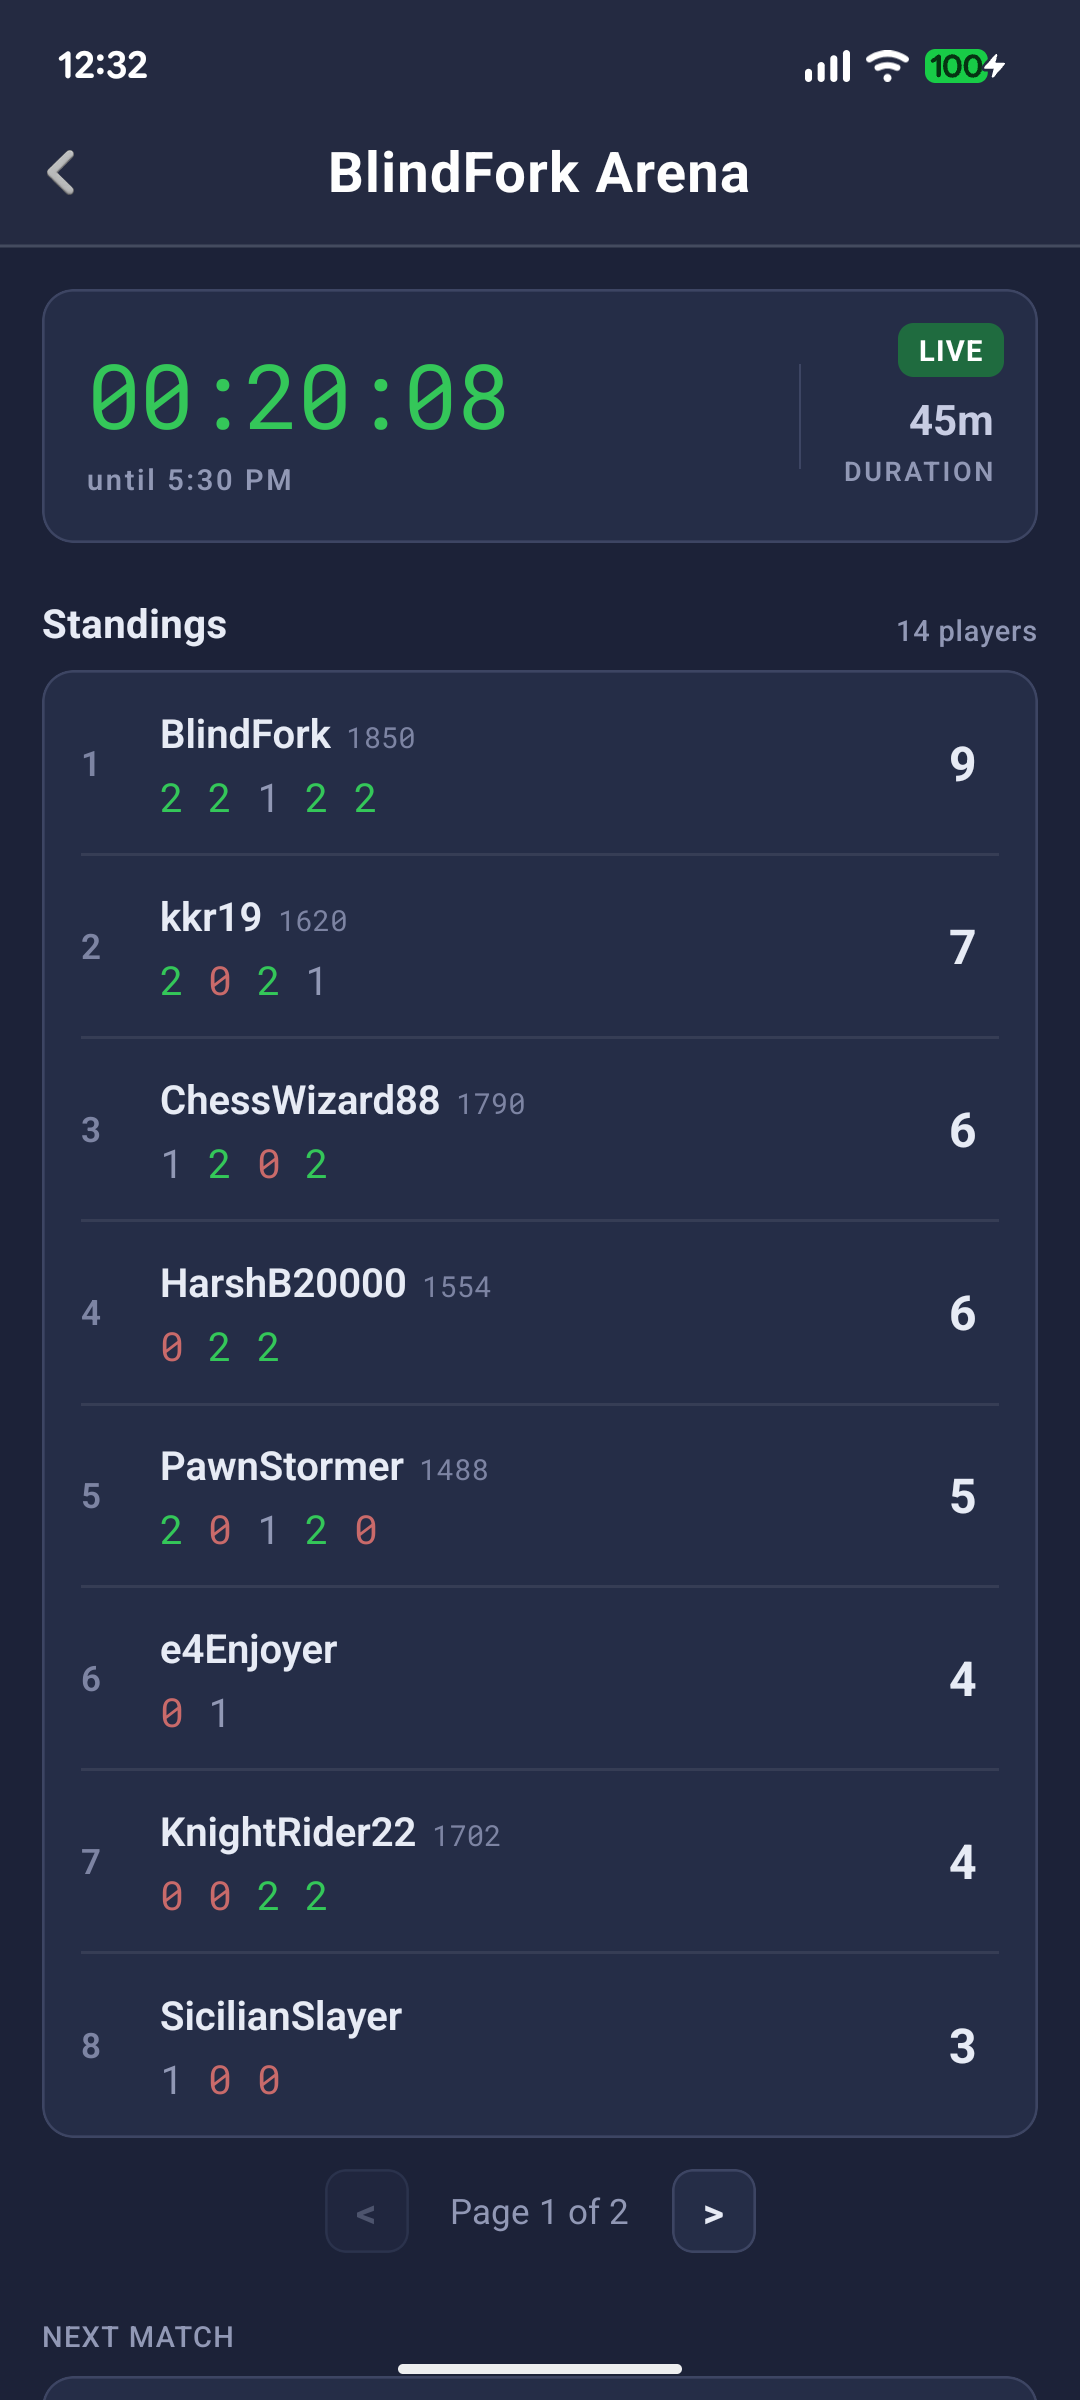
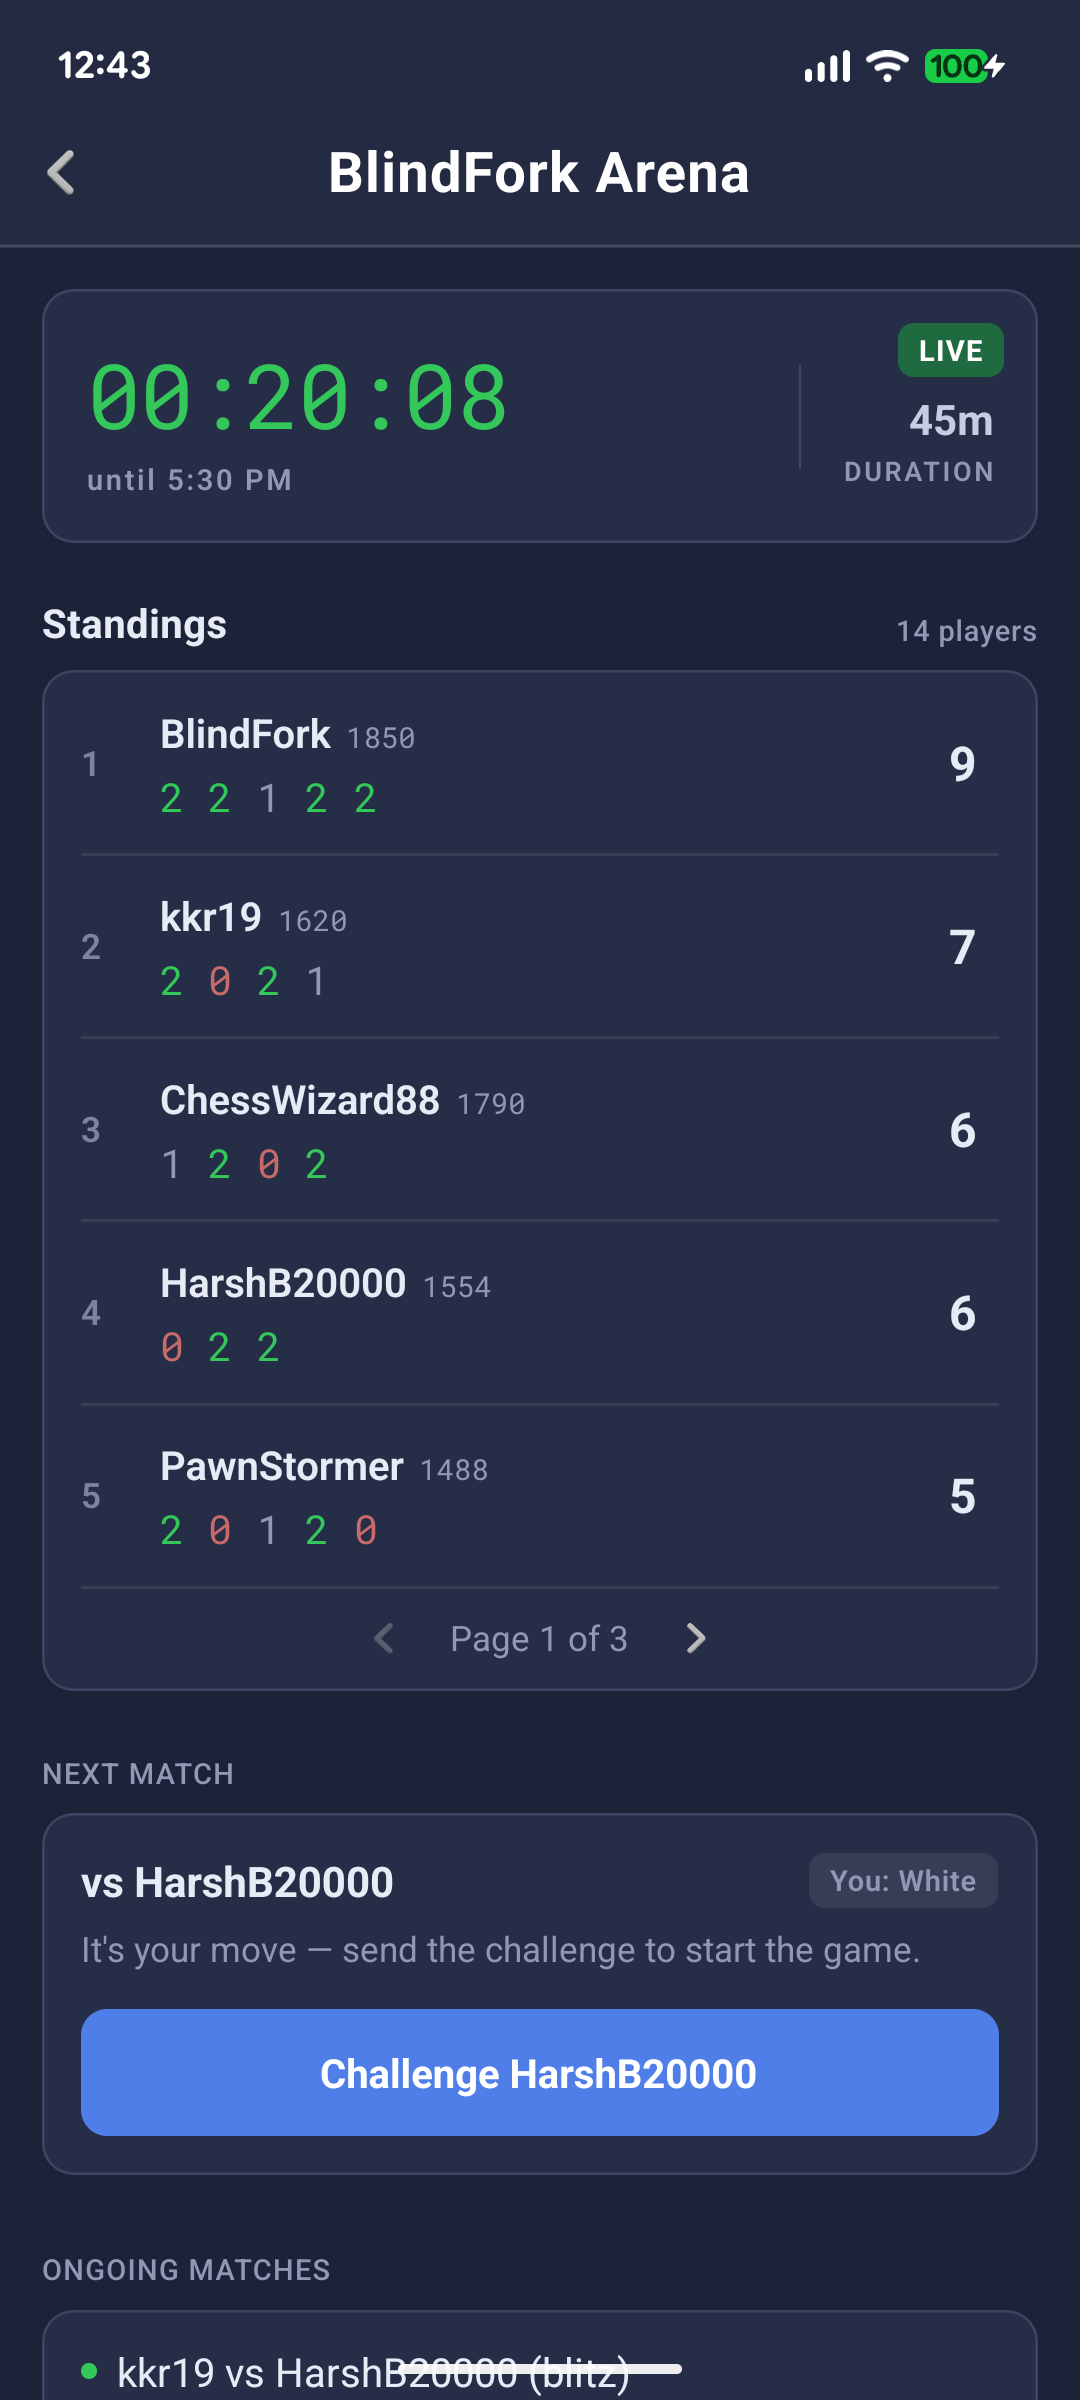
live tournament page

diff --git a/src/screens/OngoingTournamentScreenDebug.tsx b/src/screens/OngoingTournamentScreenDebug.tsx
@@ -4,6 +4,7 @@ import { NativeStackScreenProps } from '@react-navigation/native-stack';
 import { useSafeAreaInsets } from 'react-native-safe-area-context';
 import { RootStackParamList } from '../navigation/AppNavigator';
 import whiteLeftArrow from '../images/white-left-arrow.png';
+import whiteRightArrow from '../images/white-right-arrow.png';
 import { normalize, normalizeWidth, normalizeHeight } from '../utils/normalize';
 
 type Props = NativeStackScreenProps<RootStackParamList, 'OngoingTournament'>;
@@ -11,7 +12,7 @@ type Props = NativeStackScreenProps<RootStackParamList, 'OngoingTournament'>;
 const LIVE_ACCENT = '#34c759';
 const LIVE_BADGE_BG = '#1f6b3f';
 
-const TOURNAMENT_NAME = 'BlindFork Arena';
+const TOURNAMENT_NAME = 'Winter Arena';
 const ENDS_AT = '5:30 PM';
 const DURATION = '45m';
 const REMAINING = '00:20:08';
@@ -33,14 +34,14 @@ const LEADERBOARD: { player: string; points: number; rating?: number; recent?: n
   { player: 'CastleKing', points: 0 },
 ];
 
-const STANDINGS_PAGE_SIZE = 8;
+const STANDINGS_PAGE_SIZE = 5;
 const STANDINGS_TOTAL_PAGES = Math.ceil(LEADERBOARD.length / STANDINGS_PAGE_SIZE);
 
-const NEXT_PAIRING = 'HarshB20000';
+const NEXT_PAIRING = 'kkr19';
 const NEXT_PAIRING_COLOR = 'White';
 
 const ONGOING_MATCHES = [
-  { player: 'kkr19', opponent: 'HarshB20000', speed: 'blitz', startedAt: '5:02 PM' },
+  { player: 'PawnStormer', opponent: 'BlindFork', speed: 'blitz', startedAt: '5:02 PM' },
 ];
 
 export const OngoingTournamentScreenDebug = ({ navigation }: Props) => {
@@ -125,42 +126,50 @@ export const OngoingTournamentScreenDebug = ({ navigation }: Props) => {
               <Text style={styles.points}>{entry.points}</Text>
             </View>
           ))}
-        </View>
-
-        <View style={styles.pageNavRow}>
-          <TouchableOpacity
-            style={[styles.pageArrow, styles.pageArrowDisabled]}
-            disabled
-          >
-            <Text style={[styles.pageArrowText, styles.pageArrowTextDisabled]}>
-              {'<'}
+          <View style={styles.paginationFooter}>
+            <TouchableOpacity disabled hitSlop={{ top: 10, bottom: 10, left: 16, right: 16 }}>
+              <Image
+                style={[styles.pageChevronIcon, styles.pageChevronDisabled]}
+                source={whiteLeftArrow}
+              />
+            </TouchableOpacity>
+            <Text style={styles.pageFooterLabel}>
+              Page 1 of {STANDINGS_TOTAL_PAGES}
             </Text>
-          </TouchableOpacity>
-          <Text style={styles.pageNavLabel}>
-            Page 1 of {STANDINGS_TOTAL_PAGES}
-          </Text>
-          <TouchableOpacity style={styles.pageArrow}>
-            <Text style={styles.pageArrowText}>{'>'}</Text>
-          </TouchableOpacity>
+            <TouchableOpacity hitSlop={{ top: 10, bottom: 10, left: 16, right: 16 }}>
+              <Image style={styles.pageChevronIcon} source={whiteRightArrow} />
+            </TouchableOpacity>
+          </View>
         </View>
 
-        <Text style={[styles.sectionLabel, styles.nextMatchLabel]}>NEXT MATCH</Text>
         <View style={styles.nextMatchCard}>
           <View style={styles.nextMatchHeader}>
-            <Text style={styles.nextMatchOpponent}>vs {NEXT_PAIRING}</Text>
+            <View>
+              <Text style={styles.nextMatchEyebrow}>NEXT OPPONENT</Text>
+              <Text style={styles.nextMatchOpponent}>{NEXT_PAIRING}</Text>
+            </View>
             <View style={styles.colorTag}>
-              <Text style={styles.colorTagText}>You: {NEXT_PAIRING_COLOR}</Text>
+              <View
+                style={[
+                  styles.colorDot,
+                  NEXT_PAIRING_COLOR === 'White'
+                    ? styles.colorDotWhite
+                    : styles.colorDotBlack,
+                ]}
+              />
+              <Text style={styles.colorTagText}>{NEXT_PAIRING_COLOR}</Text>
             </View>
           </View>
-          <Text style={styles.nextMatchHint}>
-            It's your move — send the challenge to start the game.
-          </Text>
+          <Text style={styles.nextMatchHint}>It's your move.</Text>
           <TouchableOpacity style={styles.ctaButton} onPress={() => {}}>
             <Text style={styles.ctaButtonText}>Challenge {NEXT_PAIRING}</Text>
           </TouchableOpacity>
         </View>
 
-        <Text style={[styles.sectionLabel, styles.matchesLabel]}>ONGOING MATCHES</Text>
+        <View style={styles.matchesHeader}>
+          <Text style={styles.matchesTitle}>Ongoing Matches</Text>
+          <Text style={styles.matchesCount}>{ONGOING_MATCHES.length} live</Text>
+        </View>
         {ONGOING_MATCHES.map(m => (
           <View key={`${m.player}-${m.opponent}`} style={styles.matchRow}>
             <View style={styles.matchRowTop}>
@@ -348,7 +357,7 @@ const styles = StyleSheet.create({
   ratingText: {
     fontFamily: 'RobotoMono-Regular',
     fontSize: 11,
-    color: '#7d84a3',
+    color: '#9198b5',
   },
   formRow: {
     flexDirection: 'row',
@@ -374,42 +383,30 @@ const styles = StyleSheet.create({
     color: '#e7ebf5',
     marginRight: 8,
   },
-  pageNavRow: {
+  paginationFooter: {
     flexDirection: 'row',
     alignItems: 'center',
     justifyContent: 'center',
-    marginTop: 12,
+    paddingVertical: 10,
+    borderTopWidth: 1,
+    borderTopColor: 'rgba(255,255,255,0.08)',
   },
-  pageArrow: {
-    width: 32,
-    height: 32,
-    borderRadius: 8,
-    backgroundColor: '#252d47',
-    borderWidth: 1,
-    borderColor: '#3d4563',
-    alignItems: 'center',
-    justifyContent: 'center',
-  },
-  pageArrowDisabled: {
-    opacity: 0.4,
-  },
-  pageArrowText: {
-    fontSize: 15,
-    fontWeight: '700',
-    color: '#e7ebf5',
-  },
-  pageArrowTextDisabled: {
-    color: '#9198b5',
-  },
-  pageNavLabel: {
-    fontSize: 13,
-    color: '#9198b5',
+  pageChevronIcon: {
+    width: normalizeWidth(6),
+    height: normalizeWidth(6) * (86.0 / 51.0),
+    resizeMode: 'stretch',
     marginHorizontal: 16,
   },
-  nextMatchLabel: {
-    marginTop: 24,
+  pageChevronDisabled: {
+    opacity: 0.35,
+  },
+  pageFooterLabel: {
+    fontSize: 13,
+    color: '#9198b5',
+    marginHorizontal: 6,
   },
   nextMatchCard: {
+    marginTop: 24,
     borderRadius: 12,
     backgroundColor: '#252d47',
     borderWidth: 1,
@@ -421,28 +418,52 @@ const styles = StyleSheet.create({
     alignItems: 'center',
     justifyContent: 'space-between',
   },
+  nextMatchEyebrow: {
+    fontSize: 10,
+    fontWeight: '600',
+    color: '#9198b5',
+    letterSpacing: 0.8,
+    marginBottom: 3,
+  },
   nextMatchOpponent: {
-    fontSize: 16,
+    fontSize: 17,
     fontWeight: '700',
     color: '#e7ebf5',
   },
   colorTag: {
-    backgroundColor: 'rgba(255,255,255,0.08)',
+    flexDirection: 'row',
+    alignItems: 'center',
+    backgroundColor: 'rgba(255,255,255,0.14)',
     borderRadius: 6,
     paddingHorizontal: 8,
     paddingVertical: 3,
   },
+  colorDot: {
+    width: 7,
+    height: 7,
+    borderRadius: 3.5,
+    marginRight: 5,
+    borderWidth: 1,
+    borderColor: 'rgba(255,255,255,0.3)',
+  },
+  colorDotWhite: {
+    backgroundColor: '#e7ebf5',
+  },
+  colorDotBlack: {
+    backgroundColor: '#1c2238',
+  },
   colorTagText: {
     fontSize: 11,
-    fontWeight: '600',
-    color: '#9198b5',
-    letterSpacing: 0.3,
+    fontWeight: '700',
+    color: '#e7ebf5',
+    letterSpacing: 0.5,
+    textTransform: 'uppercase',
   },
   nextMatchHint: {
     fontSize: 13,
     color: '#9198b5',
-    marginTop: 6,
-    marginBottom: 14,
+    marginTop: 8,
+    marginBottom: 12,
   },
   ctaButton: {
     backgroundColor: '#4f7ee8',
@@ -455,8 +476,24 @@ const styles = StyleSheet.create({
     fontSize: 15,
     fontWeight: '700',
   },
-  matchesLabel: {
+  matchesHeader: {
+    flexDirection: 'row',
+    alignItems: 'flex-end',
+    justifyContent: 'space-between',
     marginTop: 28,
+    marginBottom: 14,
+  },
+  matchesTitle: {
+    fontSize: 15,
+    fontWeight: '700',
+    color: '#e7ebf5',
+    letterSpacing: 0.2,
+  },
+  matchesCount: {
+    fontSize: 13,
+    fontWeight: '500',
+    color: '#9198b5',
+    letterSpacing: 0.3,
   },
   matchRow: {
     borderRadius: 12,
